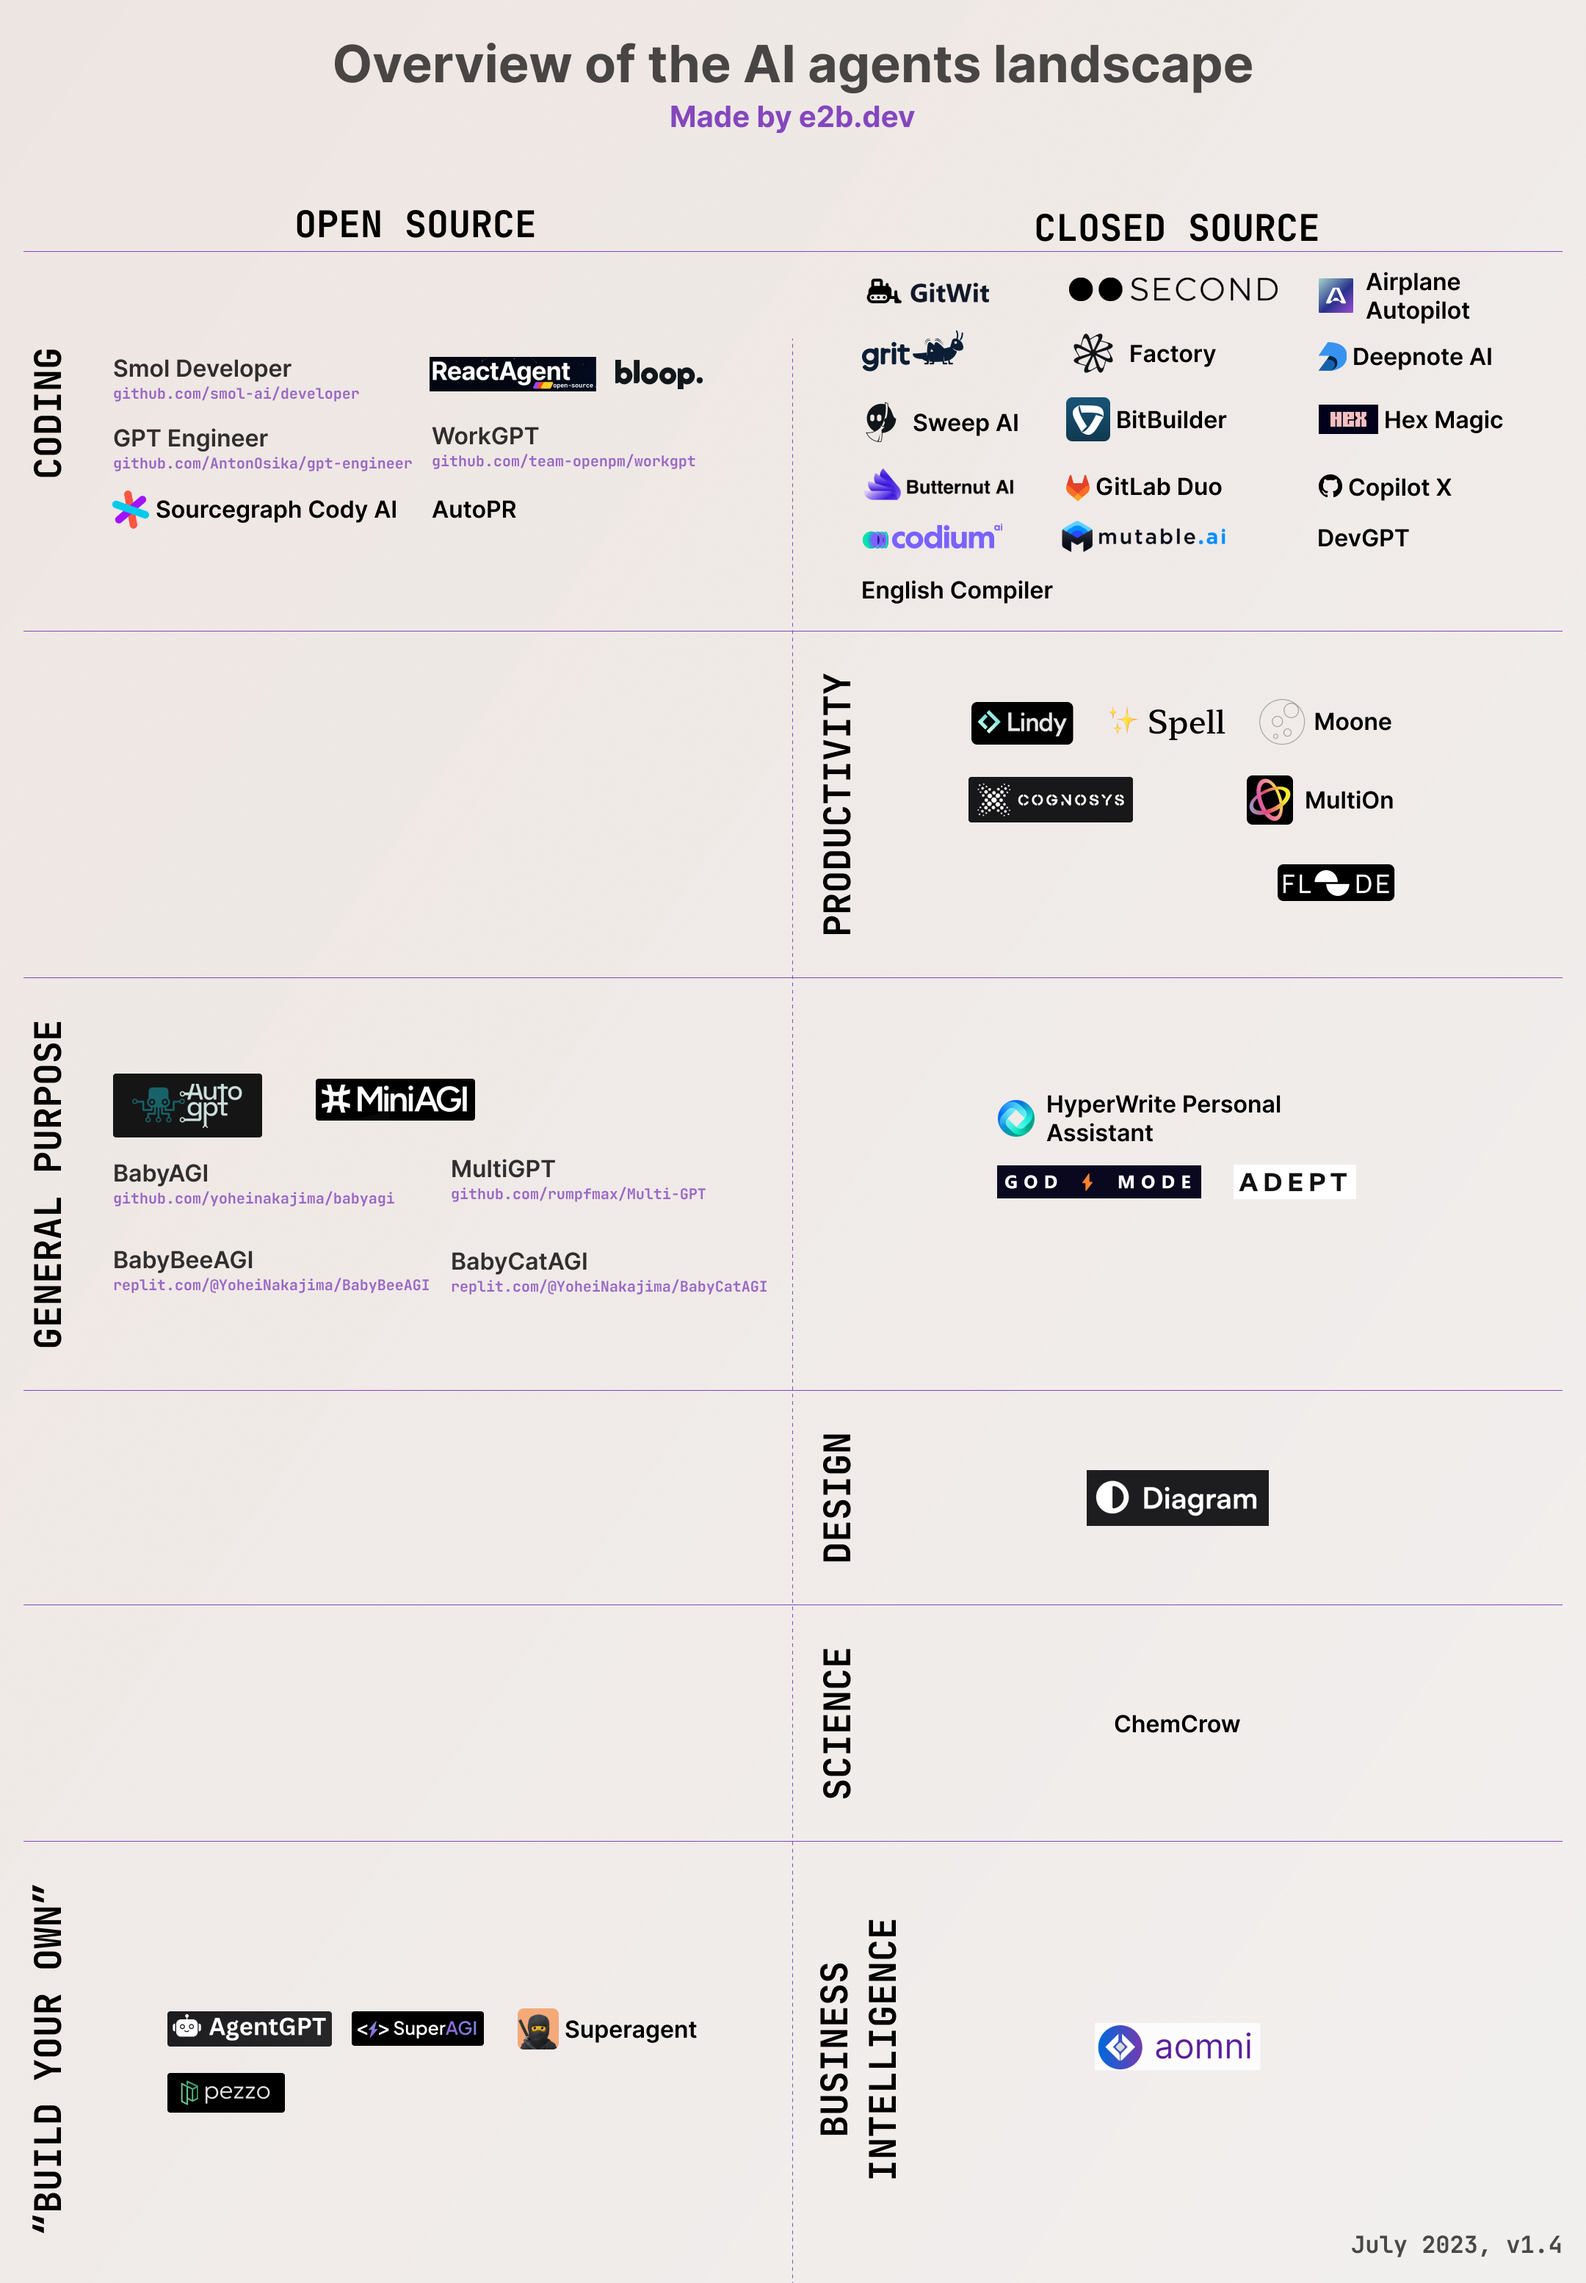
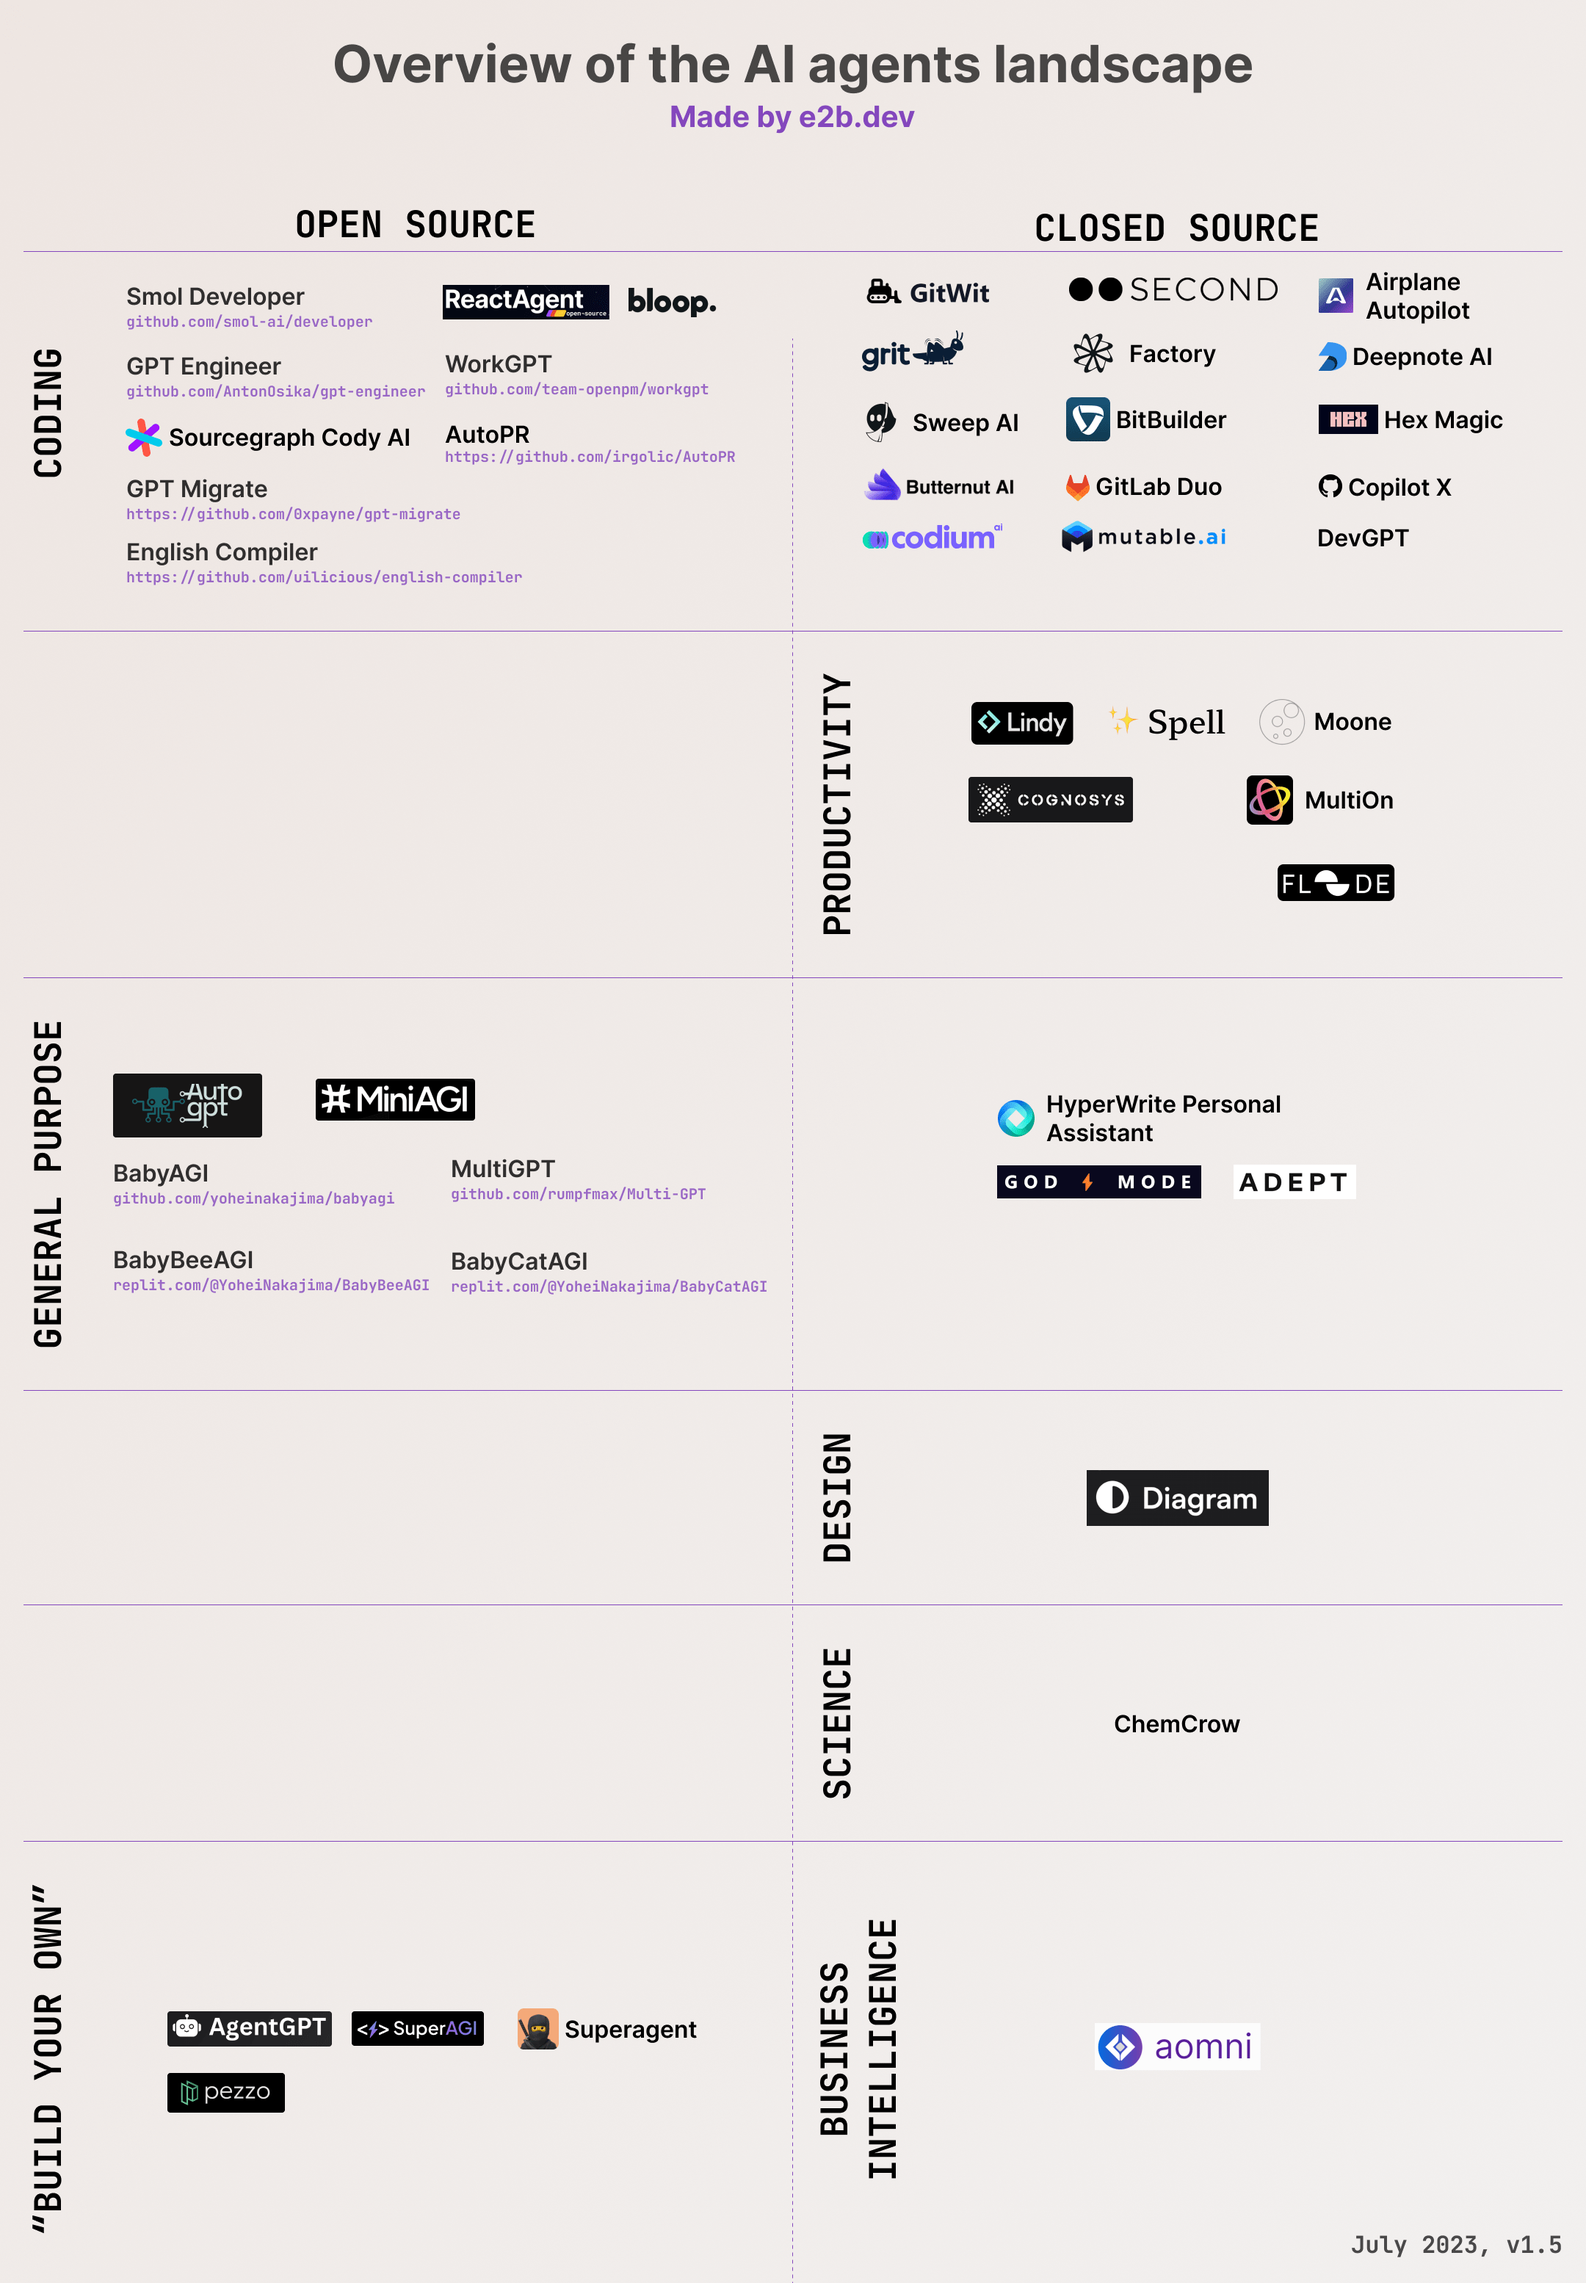
Add GPT Migrate; move English Compiler to open-source; add GitHub links to AutoPR and English Compiler

Changed region(s): [[0.062, 0.1248, 0.4343, 0.2496], [0.6204, 0.2496, 0.6514, 0.2808], [0.5583, 0.2496, 0.5894, 0.2808]]

diff --git a/README.md b/README.md
@@ -584,6 +584,26 @@ An AI agent that generates an entire codebase based on a prompt
 
 </details>
 
+## [GPT Migrate](https://github.com/0xpayne/gpt-migrate)
+Easily migrate your codebase from one framework or language to another
+
+<details>
+
+### Description
+- Pick from different LLMs
+- Ability to allow GPT Migration to generate and run unit tests for the new codebase
+- Ability to select source and target language of the migration
+- Ability to customize the agent's workflow (setup -> migrate -> test)
+- GPT Migrate team is working on adding [benchmarks](https://github.com/0xpayne/gpt-migrate#-benchmarks) for the agent
+
+### Links
+- [Website](https://gpt-migrate.com/)
+- Author: [Josh Payne](https://twitter.com/joshpxyne)
+- [Announcement](https://twitter.com/joshpxyne/status/1675254164165910528)
+
+
+</details>
+
 
 ## [Loop GPT](https://github.com/farizrahman4u/loopgpt/tree/main)
 A re-implementation of the popular Auto-GPT project as a proper python package, written with modularity and extensibility in mind
@@ -1273,7 +1293,7 @@ AI-powered software developer
 	- Planning refinement
 	- Security risk resolution
 	- CI/CD pipeline health
-	- Analytics charting. 
+	- Analytics charting.
 
 ### Links
 - [Twitter](https://twitter.com/gitlab)
@@ -1383,7 +1403,7 @@ Web Scraping on Autopilot with AI
 ### Links
 - [Playground](https://www.kadoa.com/playground)
 - Author: [Adrian Krebs](https://twitter.com/krebs_adrian)
-  
+
 </details>
 
 
